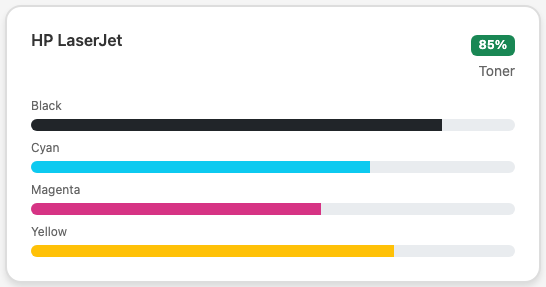
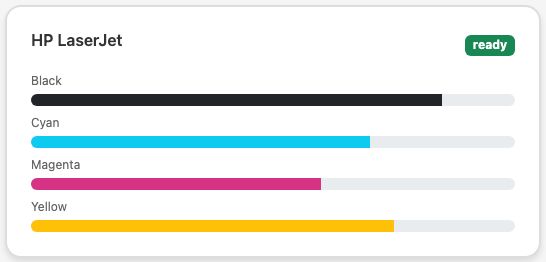
Update generated images

diff --git a/card-showcase.html b/card-showcase.html
@@ -254,30 +254,37 @@
             border: 2px solid #ddd;
         }
 
-        .state-indicator {
+                .state-indicator,
+                .binary-state-indicator {
             display: flex;
             align-items: center;
             justify-content: center;
-            width: 40px;
-            height: 40px;
-            flex-shrink: 0;
-            font-size: 1.5rem;
+              width: 40px;
+              height: 40px;
+              flex-shrink: 0;
+              padding: 0.5rem;
+              border-radius: 0.5rem;
+              font-size: 1.5rem;
         }
 
-        .state-indicator.state-on {
+        .state-indicator.state-on,
+        .binary-state-indicator.state-on {
             color: #28a745;
         }
 
-        .state-indicator.state-off {
+        .state-indicator.state-off,
+        .binary-state-indicator.state-off {
             color: #6c757d;
         }
 
-        .state-indicator.state-unavailable {
+        .state-indicator.state-unavailable,
+        .binary-state-indicator.state-unavailable {
             color: #ffc107;
         }
 
         .state-icon {
-            font-size: 1.5rem;
+            font-size: 2rem;
+            display: block;
         }
 
         /* Icon circle wrapper for error/warning */
@@ -292,6 +299,7 @@
         }
 
         .icon-bg {
+            position: relative; /* anchor element for absolute icon overlay */
             display: flex;
             align-items: center;
             justify-content: center;
@@ -299,20 +307,25 @@
             height: 100%;
             border-radius: 50%;
             box-shadow: 0 2px 4px rgba(0, 0, 0, 0.15);
+            overflow: hidden;
         }
 
         .icon-circle {
             position: absolute;
             width: 100%;
             height: 100%;
+            z-index: 0;
             filter: drop-shadow(0 1px 2px rgba(0, 0, 0, 0.1));
         }
 
         .icon-overlay {
-            position: relative;
+            position: absolute;
+            left: 50%;
+            top: 50%;
+            transform: translate(-50%, -50%);
             z-index: 1;
             font-size: 1.5rem;
-            color: white;
+            color: inherit; /* Use inherited color so card-specific overrides work */
         }
 
         /* Sensor value and unit styling */
@@ -438,6 +451,16 @@
 
         .warning-icon {
             color: #ffc107;
+        }
+
+        /* Icon color overrides for error/warning cards so overlay remains visible */
+        .error-card .icon-circle-wrapper .icon-overlay { color: white; }
+        .warning-card .icon-circle-wrapper .icon-overlay { color: #333; }
+
+        /* Media icon styling - scoped to the media card */
+        .media-card .media-icon {
+            font-size: 1.5rem;
+            color: var(--bs-info);
         }
 
         .footer {
@@ -789,42 +812,42 @@
             <h2>🔲 Binary Sensor Card (HaBinarySensor)</h2>
             <div class="showcase-grid">
                 <!-- Motion Detected -->
-                <div class="card binary-sensor-card">
+                <div class="card card-display h-100 rounded-4 shadow-lg binary-sensor-card">
                     <div class="card-body">
                         <div class="d-flex align-items-center">
                             <div class="text-start flex-grow-1">
                                 <h6 class="card-title mb-0">Motion Sensor</h6>
                             </div>
-                            <div class="state-indicator state-on">
-                                <i class="mdi mdi-motion-sensor state-icon"></i>
+                            <div class="binary-state-indicator state-on">
+                                <i class="mdi mdi-check-circle state-icon"></i>
                             </div>
                         </div>
                     </div>
                 </div>
 
                 <!-- No Motion -->
-                <div class="card binary-sensor-card">
+                <div class="card card-display h-100 rounded-4 shadow-lg binary-sensor-card">
                     <div class="card-body">
                         <div class="d-flex align-items-center">
                             <div class="text-start flex-grow-1">
                                 <h6 class="card-title mb-0">Door Sensor</h6>
                             </div>
-                            <div class="state-indicator state-off">
-                                <i class="mdi mdi-door-closed state-icon"></i>
+                            <div class="binary-state-indicator state-off">
+                                <i class="mdi mdi-circle-outline state-icon"></i>
                             </div>
                         </div>
                     </div>
                 </div>
 
                 <!-- Unavailable -->
-                <div class="card binary-sensor-card" style="opacity: 0.5;">
+                <div class="card card-display h-100 rounded-4 shadow-lg binary-sensor-card" style="opacity: 0.5;">
                     <div class="card-body">
                         <div class="d-flex align-items-center">
                             <div class="text-start flex-grow-1">
                                 <h6 class="card-title mb-0">Window Sensor</h6>
                             </div>
-                            <div class="state-indicator state-unavailable">
-                                <i class="mdi mdi-window-closed state-icon"></i>
+                            <div class="binary-state-indicator state-unavailable">
+                                <i class="mdi mdi-help-circle-outline state-icon"></i>
                             </div>
                         </div>
                     </div>
@@ -1291,8 +1314,7 @@
                                 <h6 class="card-title mb-0">HP LaserJet</h6>
                             </div>
                             <div class="text-end">
-                                <span class="badge bg-success">85%</span>
-                                <div class="small text-muted mt-1">Toner</div>
+                                <span class="badge bg-success">ready</span>
                             </div>
                         </div>
                         <div style="display: flex; flex-direction: column; gap: 0.5rem;">

diff --git a/capture-card-variations.js b/capture-card-variations.js
@@ -150,9 +150,31 @@ async function captureCardVariations() {
   // Set viewport to match card display width
   await page.setViewportSize({ width: 600, height: 900 });
 
-  await page.goto('http://localhost:8888/card-showcase.html');
+  const baseUrl = process.env.BASE_URL || 'http://localhost:8888';
+  const url = baseUrl.replace(/\/$/, '') + '/card-showcase.html';
+  // Try a few times in case the server is still starting
+  const maxRetries = 8;
+  let lastErr = null;
+  for (let i = 0; i < maxRetries; i++) {
+    try {
+      await page.goto(url, { waitUntil: 'load' });
+      lastErr = null;
+      break;
+    } catch (err) {
+      lastErr = err;
+      console.log(`Waiting for server at ${url} (attempt ${i + 1}/${maxRetries}) ...`);
+      await page.waitForTimeout(500);
+    }
+  }
+  if (lastErr) throw lastErr;
 
+  // Allow filtering of which cards to capture via CARDS env var
+  let wanted = null;
+  if (process.env.CARDS) {
+    wanted = new Set(process.env.CARDS.split(',').map((s) => s.trim()));
+  }
   for (const cardConfig of cardVariations) {
+    if (wanted && !wanted.has(cardConfig.cardName)) continue;
     try {
       // Wait for the card section to be visible
       await page.waitForSelector(`#${cardConfig.cardId}`, { timeout: 5000 });

diff --git a/CONFIGURATION.md b/CONFIGURATION.md
@@ -457,7 +457,7 @@ Comparing power consumption across multiple sources (same unit):
 
 ### HaBinarySensor
 
-![HaBinarySensor Card](./images/habinarysensor.png)
+![HaBinarySensor Card](./images/habinarysensor-on.png)
 
 Displays binary state (on/off, open/closed, detected/not detected).
 
